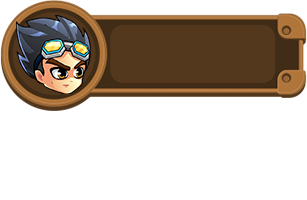
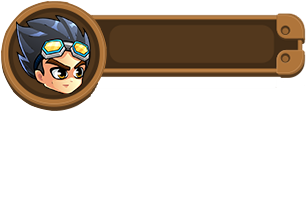
Changed player HUD, added level progress HUD

diff --git a/game/js/clive.js b/game/js/clive.js
@@ -1,6 +1,7 @@
 var gameIsLost;  // Set to true when the player dies.
 var gameIsWon;   // Set to true when the game is won.
 var killCounter; // Counts how many zombies are killed.
+var waveSize; // Total number of zombies in the wave.
 var pad1 = {img:null,x:null,y:null,onPad:null,onPadZombie:null}; 
 var pad2 = {img:null,x:null,y:null,onPad:null,onPadZombie:null}; 
 var pad3 = {img:null,x:null,y:null,onPad:null,onPadZombie:null};
@@ -8,6 +9,14 @@ var pad4 = {img:null,x:null,y:null,onPad:null,onPadZombie:null};
 var pads; // This array holds the pads that the player can jump onto.
 var bullets; // This array will hold all the bullets displayed on the canvas.
 var bulletSpeedMultiplier; // A variable used to determine the value of bullet speed.
+
+// Variables related to level progress HUD
+var hud_clipX;
+var hud_clipY;
+var hud_clipXLength;
+var hud_clipYHeight;
+var hud_slotWidth;
+// ***************************************
 
 // INTERVALS ************************************************************************************************************************
 var crateInt;    // Crate spawn interval.
@@ -33,7 +42,6 @@ const GRAVITY_MULTIPLIER = 40;
 const GRAVITY = (GRAVITY_MULTIPLIER / FPS) / (FPS / 30);
 const PLAYER_SPEED = 240 / FPS;
 const BULLET_SPEED_MULTIPLIER = 1200 / FPS; // A variable used to determine the value of bullet speed.
-const maxKillCount = 30;
 var currentDirection;// Used to keep track of player's direction. (true=right false=left)
 var jumpSound = document.createElement("AUDIO"); // This is the jump sound effect, weeeeeeeee!
 var shootSound = document.createElement("AUDIO"); // Shooting sound effect.
@@ -70,6 +78,7 @@ function createMap() // Initialize all the variables here.
     bullets = [];
     bulletSpeedMultiplier = 10;
     pads = [];
+	clouds = [];
 	jumperZombies = [];
     pad1.x = 300;
     pad1.y = 600;
@@ -91,6 +100,7 @@ function createMap() // Initialize all the variables here.
     gameIsLost = false;
     gameIsWon = false;
 	killCounter = 0;
+	waveSize = 10;
 	jumpSound.setAttribute("src","aud/jump.wav");
     shootSound.setAttribute("src","aud/shoot.wav");
     zombieDamageSound.setAttribute("src","aud/damage.wav");
@@ -100,7 +110,7 @@ function createMap() // Initialize all the variables here.
     zombieInt = setInterval(spawnZombie,5000);
 	flyingZombieInt = setInterval(spawnFlyingZombie, 7000);
 	flyingZombieFireInt = setInterval(fireFlyingZombie, 2500);
-	jumperZombieInt = setInterval (spawnJumperZombie, 9000);
+	jumperZombieInt = setInterval (spawnJumperZombie, 10000);
 	for(var i = 0; i < 4; i++)
         spawnCloud();
     restartImg.x = 635;
@@ -109,10 +119,12 @@ function createMap() // Initialize all the variables here.
 	playerPortraitBackground.x = canvas.width/50;
 	playerPortraitBackground.y = canvas.height/30;
 	playerPortraitBackground.onPlay = true;
-	playerLives.x1 = canvas.width/50 + 120;
-	playerLives.x2 = canvas.width/50 + 120 + 50;
-	playerLives.x3 = canvas.width/50 + 120 + 2*50;
-	playerLives.y = canvas.height/30 + 35;
+	playerLives.x1 = canvas.width/50;
+	playerLives.x2 = canvas.width/50 + 35;
+	playerLives.x3 = canvas.width/50 + 2*35;
+	playerLives.x2 = canvas.width/50 + 3*35;
+	playerLives.x3 = canvas.width/50 + 4*35;
+	playerLives.y = canvas.height/30;
 	playerLives.onPlay = true;
 	powerupPortraitBackground.x = canvas.width/50;
 	powerupPortraitBackground.y = canvas.height/30;
@@ -137,6 +149,20 @@ function createMap() // Initialize all the variables here.
 	hud_diamondGunBullets.x5 = canvas.width/50 + 4*15;
 	hud_diamondGunBullets.y = canvas.height/30;
 	hud_diamondGunBullets.onPlay = true;
+	hud_progressFrame.x = canvas.width/50 + 410;
+	hud_progressFrame.y = canvas.height/30;
+	hud_progressFrame.onPlay = true;
+	hud_progressBackground1.x = canvas.width/50 + 410;
+	hud_progressBackground1.y = canvas.height/30;
+	hud_progressBackground1.onPlay = true;
+	hud_progressBackground2.x = canvas.width/50 + 410;
+	hud_progressBackground2.y = canvas.height/30;
+	hud_progressBackground2.onPlay = true;
+	hud_clipX = 0;
+	hud_clipY = 0;
+	hud_clipXLength = 0;
+	hud_clipYHeight = 0;
+	hud_slotWidth = 0;
 	
     update();
 }
@@ -193,7 +219,8 @@ function render()
 	drawSlimes(surface);
     surface.drawImage(player.img,player.x,player.y); // Draw the player.
 	drawBullets(surface);
-	drawHUD(surface);
+	drawPlayerHUD(surface);
+	drawProgressHUD(surface);
     if (gameIsLost || gameIsWon) {
         window.removeEventListener("keydown", onKeyDown);
         window.removeEventListener("keyup", onKeyUp);
@@ -226,6 +253,7 @@ function render()
     }
 	if(restartImg.onPlay == true)
 	{
+		console.log("HERELOL");
 		surface.drawImage(restartImg.img, restartImg.x, restartImg.y);
 	}
 }
@@ -416,7 +444,7 @@ function restartGame(event)
 	}
 }
 
-function drawHUD(surface)
+function drawPlayerHUD(surface)
 {
 	if (player.currentPowerUp == 1)
 	{
@@ -455,4 +483,33 @@ function drawHUD(surface)
 		surface.drawImage(playerLives.img,playerLives.x2,playerLives.y);
 	if (player.livesLeft >= 3)
 		surface.drawImage(playerLives.img,playerLives.x3,playerLives.y);
+}
+
+function drawProgressHUD(surface)
+{
+	surface.drawImage(hud_progressBackground1.img, hud_progressBackground1.x, hud_progressBackground1.y);
+	surface.drawImage(  hud_progressBackground2.img, 
+						hud_clipX,
+						hud_clipY,
+						hud_clipXLength,
+						hud_clipYHeight,
+						hud_progressBackground2.x, 
+						hud_progressBackground2.y, 
+						hud_clipXLength,
+						hud_clipYHeight);
+	surface.drawImage(hud_progressFrame.img, hud_progressFrame.x, hud_progressFrame.y);
+	var currentProgress = killCounter + " / " + waveSize;
+	surface.font = "34px Arial";
+	surface.fillStyle = '#000000';
+	surface.fillText(currentProgress, 770, 90);
+}
+
+function updateProgressHUD()
+{
+	var totalWidth = hud_progressBackground2.img.width;
+	hud_slotWidth = totalWidth / waveSize;
+	hud_clipX = 0;
+	hud_clipY = 0;
+	hud_clipXLength = hud_slotWidth * killCounter;
+	hud_clipYHeight = hud_progressBackground2.img.height;
 }

diff --git a/game/js/canvas.js b/game/js/canvas.js
@@ -12,12 +12,15 @@ var options = { x: null, y: null, onPlay: null };
 var resume = { x: null, y: null, onPlay: null };
 var winImage = {};
 var playerPortraitBackground = {x:null, y:null, img:null, onPlay:null};
-var playerLives = {x1:null, x2:null, x3:null, y:null, img:null, onPlay:null};
+var playerLives = {x1:null, x2:null, x3:null, x4:null, x5:null, y:null, img:null, onPlay:null};
 var powerupPortraitBackground = {x:null, y:null, img:null, onPlay:null};
 var hud_sprayGun = {x:null, y:null, img:null, onPlay:null};
 var hud_sprayGunBullets = {x1:null, x2:null, x3:null, x4:null, x5:null, y:null, img:null, onPlay:null};
 var hud_diamondGun = {x:null, y:null, img:null, onPlay:null};
 var hud_diamondGunBullets = {x1:null, x2:null, x3:null, x4:null, x5:null, y:null, img:null, onPlay:null};
+var hud_progressFrame = {x:null, y:null, img:null, onPlay:null};
+var hud_progressBackground1 = {x:null, y:null, img:null, onPlay:null};
+var hud_progressBackground2 = {x:null, y:null, img:null, onPlay:null};
 var crateImage = {};
 var zombie = {};
 var jumperZombie = {};
@@ -183,4 +186,16 @@ function loadResources(callback){
 	hud_diamondGunBullets.img = new Image();
 	hud_diamondGunBullets.img.src = "img/hud_diamondGunBullet.png";
 	hud_diamondGunBullets.img.onload = function(){loadCounter(callback);}
+	
+	hud_progressFrame.img = new Image();
+	hud_progressFrame.img.src = "img/hud_progressFrame.png";
+	hud_progressFrame.img.onload = function(){loadCounter(callback);}
+	
+	hud_progressBackground1.img = new Image();
+	hud_progressBackground1.img.src = "img/hud_progressBackground1.png";
+	hud_progressBackground1.img.onload = function(){loadCounter(callback);}
+	
+	hud_progressBackground2.img = new Image();
+	hud_progressBackground2.img.src = "img/hud_progressBackground2.png";
+	hud_progressBackground2.img.onload = function(){loadCounter(callback);}
 }

diff --git a/game/js/collision.js b/game/js/collision.js
@@ -101,7 +101,8 @@ function collisionBulletZombie()
 						zombies[j].onPlay=false;
 						//zombies.splice(j,j+1); // Remove it from the zombies array.
 						killCounter++;
-						if (killCounter >= 10)
+						updateProgressHUD();
+						if (killCounter >= waveSize)
 						{
 							gameIsWon = true;
 						}
@@ -220,7 +221,8 @@ function collisionBulletFlyingZombie()
 						flyingZombies[j].onPlay=false;
 						//zombies.splice(j,j+1); // Remove it from the zombies array.
 						killCounter++;
-						if (killCounter >= 30)
+						updateProgressHUD();
+						if (killCounter >= waveSize)
 						{
 							gameIsWon = true;
 						}
@@ -339,7 +341,8 @@ function collisionBulletJumperZombie()
 						jumperZombies[j].onPlay=false;
 						//zombies.splice(j,j+1); // Remove it from the zombies array.
 						killCounter++;
-						if (killCounter >= maxKillCount)
+						updateProgressHUD();
+						if (killCounter >= waveSize)
 						{
 							gameIsWon = true;
 						}

diff --git a/game/js/start.js b/game/js/start.js
@@ -47,7 +47,7 @@ function startScreen() {
     drawSlimes(surface);
     drawButtons(surface);
     cleanSlimesArray();
-    console.log(slimes.length);
+    //console.log(slimes.length);
     startAnimation = requestAnimationFrame(startScreen);
 };
 

diff --git a/game/js/zombies.js b/game/js/zombies.js
@@ -46,8 +46,6 @@ function moveZombie()
 function spawnZombie()
 {
 	var currentZombie = Object.create(zombie);
-	console.log(zombieRight);
-	console.log(zombieRight.height);
 	currentZombie.img = zombieRight;
 	if (Math.random() > 0.5)
 	{

diff --git a/game/js/crate.js b/game/js/crate.js
@@ -29,7 +29,6 @@ function initializeCrate()
 
 function spawnCrate()
 {
-	console.log('creating crate');
 	crate.x = Math.random() * (canvas.width - crateImage.width);
 	crate.y = -crateImage.height;
 	crate.onGround = false;
